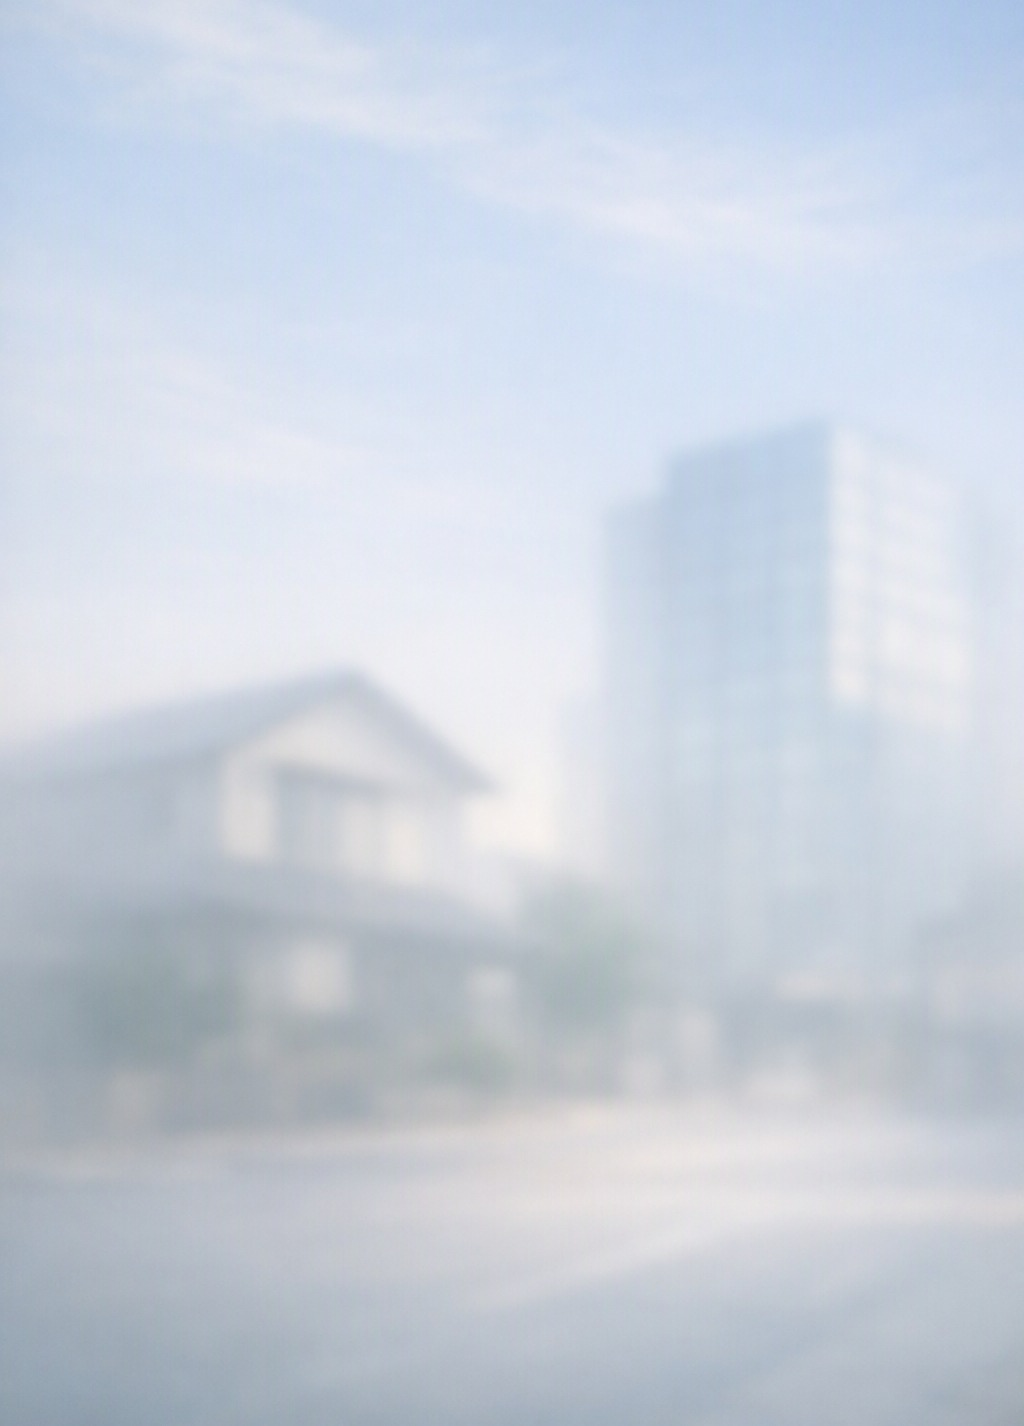
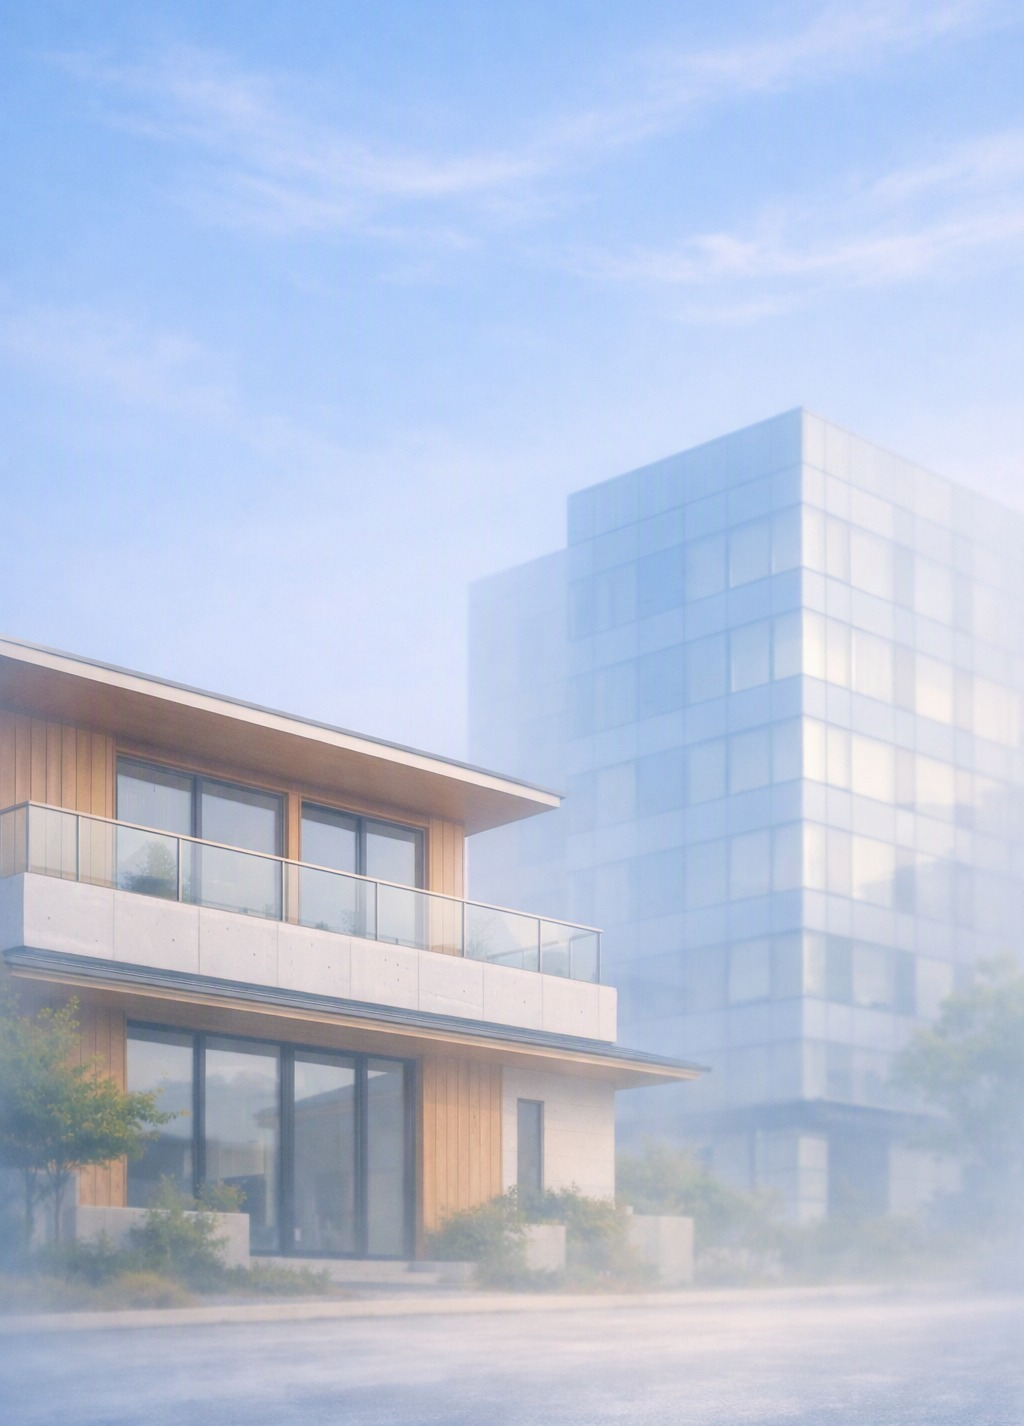
Use one shared house+building image for both index and portfolio pages
Kubo-san picked a single new Copilot generation (a modern house + modern
office tower together, soft-focus, fading from sky to street) and asked
for it to replace both bg-long-index.jpg (cool tone) and
bg-long-portfolio.jpg (warm tone) with this one image on both pages.
Cropped the "AI-Generated" badge (top 110px, same as every prior swap)
and overwrote both files with the same cropped source, so no CSS asset
paths needed to change.

Retuned every background-position value on both pages since this photo's
proportions differ from the previous pair -- sky runs to roughly 62% down
(vs ~45-50% before) with the house/building band compressed into
~62-95%. Shifted every zone's position further down to keep the same
sky -> house/building -> street progression:
- index.html/en/index.html: hero 0% (unchanged), .zone-1 0% (unchanged),
  .services 10%->15%, #strengths 25%->35%, .zone-2 45%->60%,
  .zone-3 70%->80%.
- styles.css (portfolio): .portfolio-hero-header 8%->12%,
  .portfolio-zone-1 25%->35%, .portfolio-zone-2 55%->65%,
  .portfolio-zone-footer 90%->92%.

Verified via stepped-scroll screenshots across both pages, desktop and
mobile -- the house and building read clearly at several points (e.g.
behind "強み"/"ABOUT US" on the homepage, behind "STORE & OFFICE" on the
portfolio page) while staying soft enough not to compete with foreground
text.

Claude-Session: https://claude.ai/code/session_0186vDAHELMZwb9FgZps9TQG

diff --git a/en/index.html b/en/index.html
@@ -401,11 +401,11 @@
     }
     .zone-2 {
       background-image: url('../Background/bg-long-index.jpg');
-      background-position: center 45%;
+      background-position: center 60%;
     }
     .zone-3 {
       background-image: url('../Background/bg-long-index.jpg');
-      background-position: center 70%;
+      background-position: center 80%;
     }
 
     /* buttons */
@@ -753,7 +753,7 @@
       z-index: 1;
       background-image: url('../Background/bg-long-index.jpg');
       background-size: cover;
-      background-position: center 10%;
+      background-position: center 15%;
     }
 
     .services-grid {
@@ -2061,7 +2061,7 @@
 </section>
 
 <!-- ══════════ STRENGTHS ══════════ -->
-<section id="strengths" style="padding: 2.5rem 2rem; position: relative; background-image: url('../Background/bg-long-index.jpg'); background-size: cover; background-position: center 25%;">
+<section id="strengths" style="padding: 2.5rem 2rem; position: relative; background-image: url('../Background/bg-long-index.jpg'); background-size: cover; background-position: center 35%;">
   <div style="position:absolute;inset:0;background:rgba(0,0,0,0.18);z-index:0;"></div>
   <div style="position:relative; z-index:1; max-width:1100px; margin:0 auto;">
     <div class="section-header">

diff --git a/index.html b/index.html
@@ -401,11 +401,11 @@
     }
     .zone-2 {
       background-image: url('Background/bg-long-index.jpg');
-      background-position: center 45%;
+      background-position: center 60%;
     }
     .zone-3 {
       background-image: url('Background/bg-long-index.jpg');
-      background-position: center 70%;
+      background-position: center 80%;
     }
 
     /* buttons */
@@ -751,7 +751,7 @@
       z-index: 1;
       background-image: url('Background/bg-long-index.jpg');
       background-size: cover;
-      background-position: center 10%;
+      background-position: center 15%;
     }
 
     .services-grid {
@@ -2073,7 +2073,7 @@
 </section>
 
 <!-- ══════════ STRENGTHS ══════════ -->
-<section id="strengths" style="padding: 2.5rem 2rem; position: relative; background-image: url('Background/bg-long-index.jpg'); background-size: cover; background-position: center 25%;">
+<section id="strengths" style="padding: 2.5rem 2rem; position: relative; background-image: url('Background/bg-long-index.jpg'); background-size: cover; background-position: center 35%;">
   <div style="position:absolute;inset:0;background:rgba(0,0,0,0.18);z-index:0;"></div>
   <div style="position:relative; z-index:1; max-width:1100px; margin:0 auto;">
     <div class="section-header">

diff --git a/styles.css b/styles.css
@@ -259,18 +259,18 @@ nav {
 .portfolio-zone-1 {
   margin-top: -100px;
   background-image: url('Background/bg-long-portfolio.jpg');
-  background-position: center 25%;
+  background-position: center 35%;
 }
 .portfolio-zone-2 {
   background-image: url('Background/bg-long-portfolio.jpg');
-  background-position: center 55%;
+  background-position: center 65%;
 }
 /* Ground-level crop for the footer specifically, overriding the
    .portfolio-zone-2 position it also carries -- keeps the footer showing
    street level like index.html's footer, instead of the gallery zone's
    building-reveal crop. */
 .portfolio-zone-footer {
-  background-position: center 90%;
+  background-position: center 92%;
 }
 /* The zone wrapping the footer doesn't need .portfolio-zone::before's own
    dark tint on top of footer's own rgba(0,0,0,0.22) background -- stacking
@@ -292,7 +292,7 @@ nav {
   padding: 130px 20px 1.25rem;
   background-image: url('Background/bg-long-portfolio.jpg');
   background-size: cover;
-  background-position: center 8%;
+  background-position: center 12%;
   background-repeat: no-repeat;
 }
 .portfolio-hero-header::before {